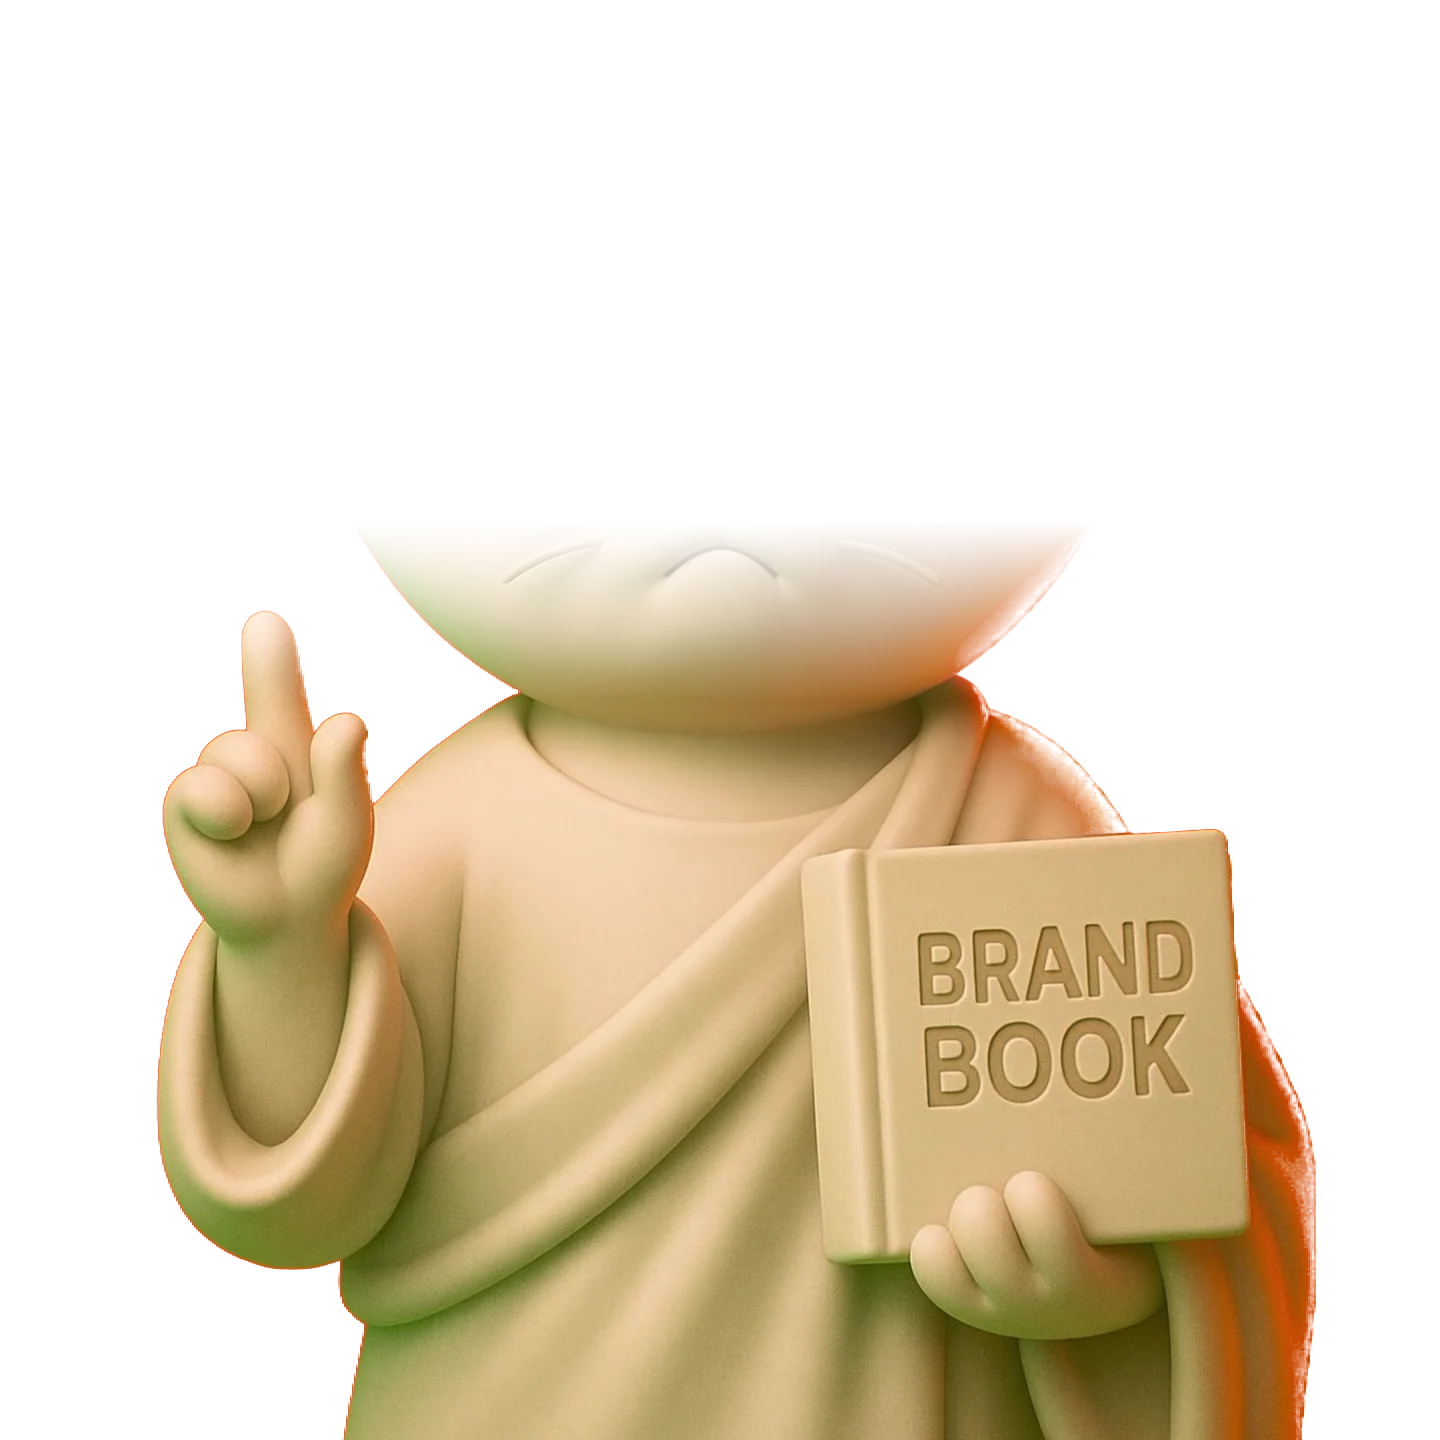
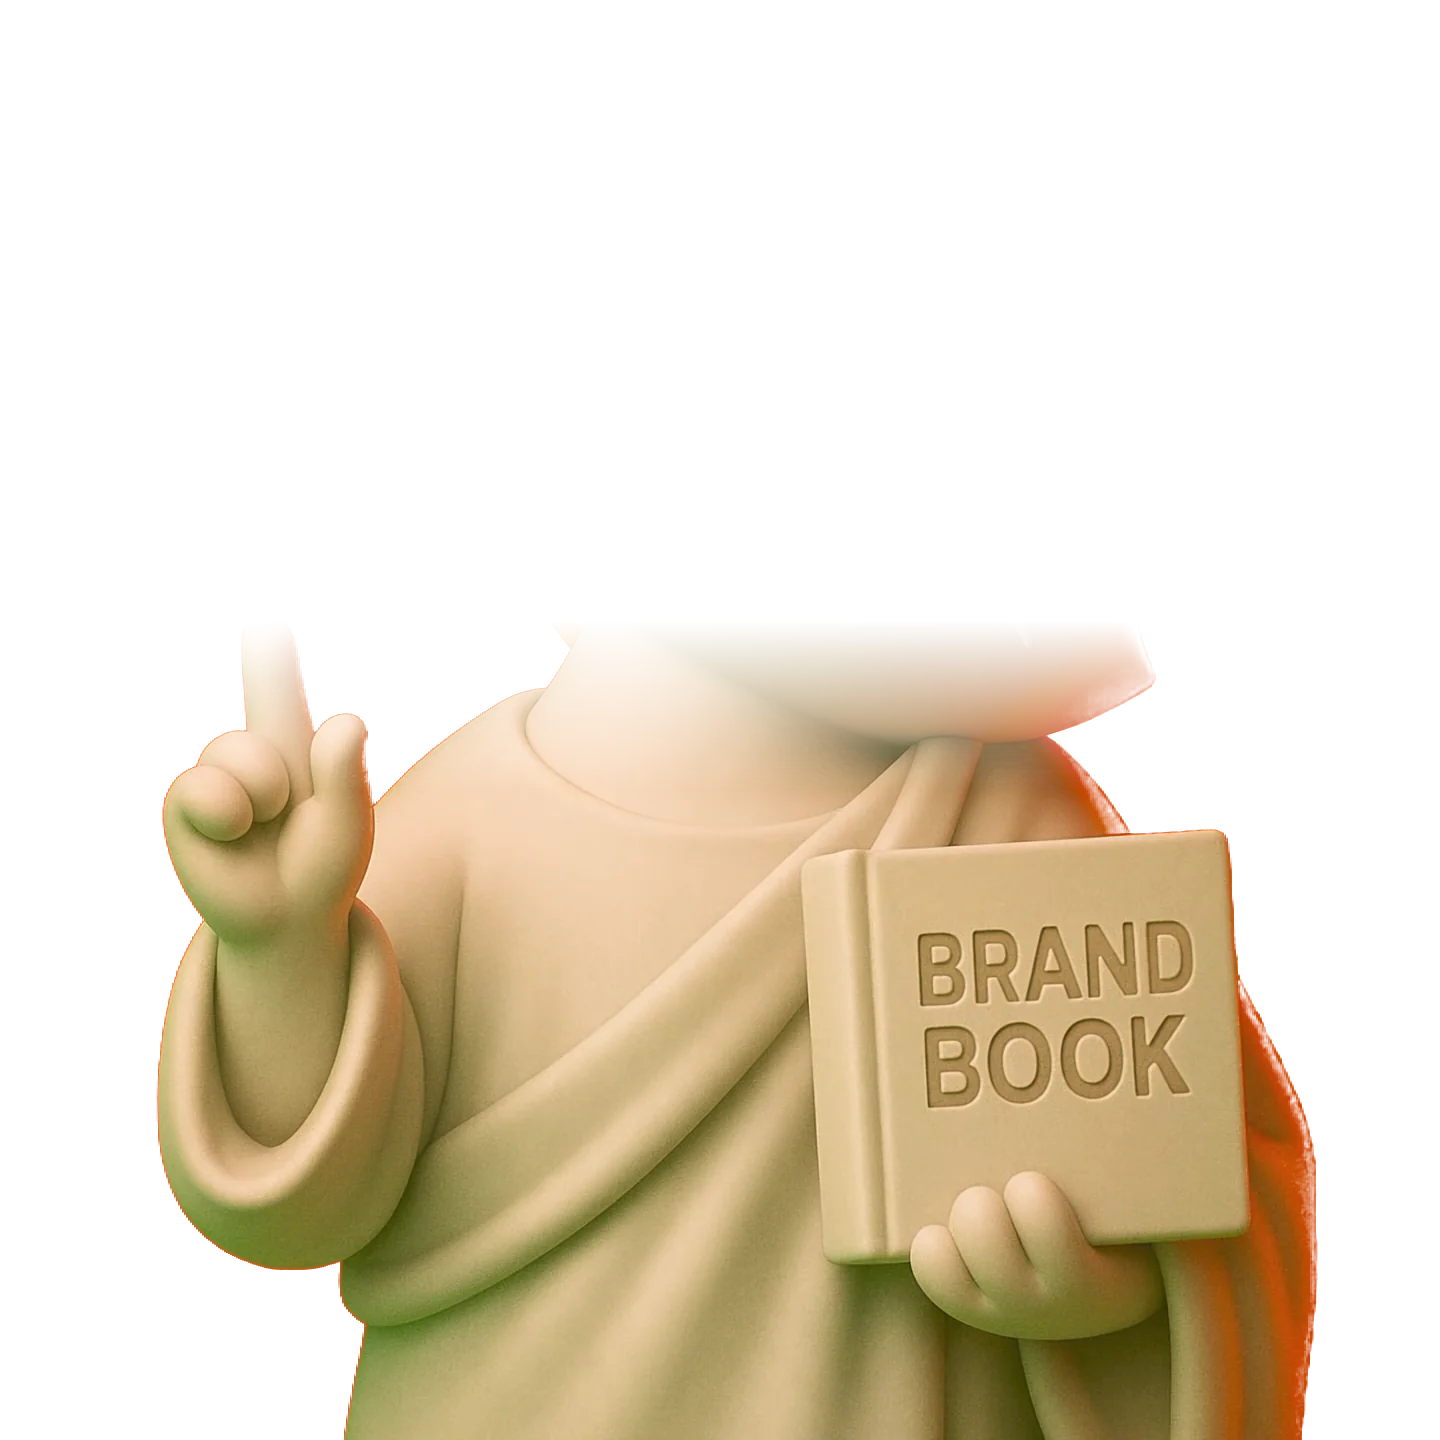
L2 landing, hero: кіт веде головою в усі боки
Новий ролик із рухом по колу: з нього відібрано 16 кадрів по кутах
(крок 22.5°), кадр обирається за кутом курсора відносно голови.
Тіло взято з одного кадру — у цьому ролику воно нерухоме на 99.94%.

diff --git a/landings/l2-brendbuk-editorial/js/main.js b/landings/l2-brendbuk-editorial/js/main.js
@@ -80,13 +80,15 @@
     var cat = document.querySelector('.hero__cat');
     var head = cat && cat.querySelector('.hero__cat-head');
     if (!head) return;
-    /* тільки миша, тільки без вимкненої анімації, тільки від 768px */
-    if (!window.matchMedia('(pointer:fine)').matches) return;
+    if (!window.matchMedia('(pointer:fine)').matches) return;   /* тільки миша */
     if (reduced.matches) return;
     if (!window.matchMedia('(min-width:768px)').matches) return;
 
-    var N = 12, COLS = 4, ROWS = 3;
-    var target = (N - 1) / 2, current = target, raf = 0;
+    /* 16 положень голови по колу: кадр 0 — погляд ліворуч (180°),
+       далі за годинниковою стрілкою з кроком 22.5°. */
+    var N = 16, COLS = 4, ROWS = 4, STEP = 360 / N;
+    var HX = 0.447, HY = 0.261;      /* центр голови в межах .hero__cat */
+    var targetAng = 180, curAng = 180, raf = 0;
 
     var apply = function (k) {
       head.style.backgroundPosition =
@@ -94,20 +96,26 @@
         (Math.floor(k / COLS) * 100 / (ROWS - 1)) + '%';
     };
 
+    var wrap = function (a) { return ((a + 180) % 360 + 360) % 360 - 180; };
+
     var step = function () {
       raf = 0;
-      current += (target - current) * 0.16;          /* м'яке доведення */
-      apply(Math.max(0, Math.min(N - 1, Math.round(current))));
-      if (Math.abs(target - current) > 0.01) raf = window.requestAnimationFrame(step);
+      curAng = wrap(curAng + wrap(targetAng - curAng) * 0.18);   /* м'яке доведення */
+      var k = Math.round(wrap(180 - curAng) / STEP);
+      apply(((k % N) + N) % N);
+      if (Math.abs(wrap(targetAng - curAng)) > 0.4) raf = window.requestAnimationFrame(step);
     };
 
-    /* картинки вантажимо лише коли вони справді потрібні */
     var sheet = new Image();
     sheet.onload = function () {
       document.body.classList.add('hero-cat-on');
-      apply(Math.round(current));
+      apply(0);
       window.addEventListener('mousemove', function (e) {
-        target = Math.max(0, Math.min(1, e.clientX / window.innerWidth)) * (N - 1);
+        var r = cat.getBoundingClientRect();
+        var dx = e.clientX - (r.left + r.width * HX);
+        var dy = e.clientY - (r.top + r.height * HY);
+        if (dx * dx + dy * dy < 3600) return;      /* просто під носом — не смикаємось */
+        targetAng = Math.atan2(-dy, dx) * 180 / Math.PI;
         if (!raf) raf = window.requestAnimationFrame(step);
       }, { passive: true });
     };

diff --git a/landings/l2-brendbuk-editorial/index.html b/landings/l2-brendbuk-editorial/index.html
@@ -19,10 +19,10 @@
 <!-- Шрифти: локальні woff2 (≈23 КБ кожен), font-display:swap — див. css/tokens.css.
      Preload навмисно не використовуємо: CSS блокує рендер і так, а подвійне
      завантаження файлу коштувало б дорожче за виграш. -->
-<link rel="stylesheet" href="css/tokens.css?v=99">
-<link rel="stylesheet" href="css/base.css?v=99">
-<link rel="stylesheet" href="css/components.css?v=99">
-<link rel="stylesheet" href="css/sections.css?v=99">
+<link rel="stylesheet" href="css/tokens.css?v=100">
+<link rel="stylesheet" href="css/base.css?v=100">
+<link rel="stylesheet" href="css/components.css?v=100">
+<link rel="stylesheet" href="css/sections.css?v=100">
 <script>document.documentElement.classList.remove('no-js');</script>
 
 <script type="application/ld+json">
@@ -1067,6 +1067,6 @@
   </div>
 </footer>
 
-<script src="js/main.js?v=99" defer></script>
+<script src="js/main.js?v=100" defer></script>
 </body>
 </html>

diff --git a/landings/l2-brendbuk-editorial/css/sections.css b/landings/l2-brendbuk-editorial/css/sections.css
@@ -103,10 +103,10 @@
     pointer-events:none;
   }
   .hero__cat-head{
-    position:absolute;left:12.5%;top:0;width:75%;height:50%;
+    position:absolute;left:9.722%;top:0;width:80.556%;height:55.556%;
     background-image:url(../images/hero/cat-head.webp);
-    background-size:400% 300%;      /* спрайт 4×3 */
-    background-position:0% 100%;
+    background-size:400% 400%;      /* спрайт 4×4, 16 положень по колу */
+    background-position:0% 0%;
     will-change:background-position;
   }
 }
